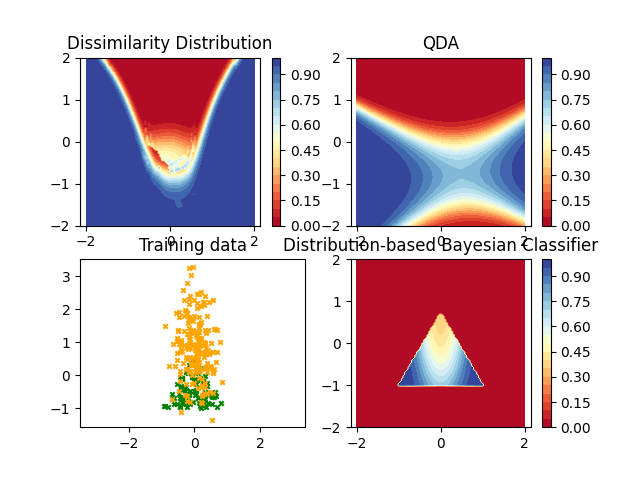
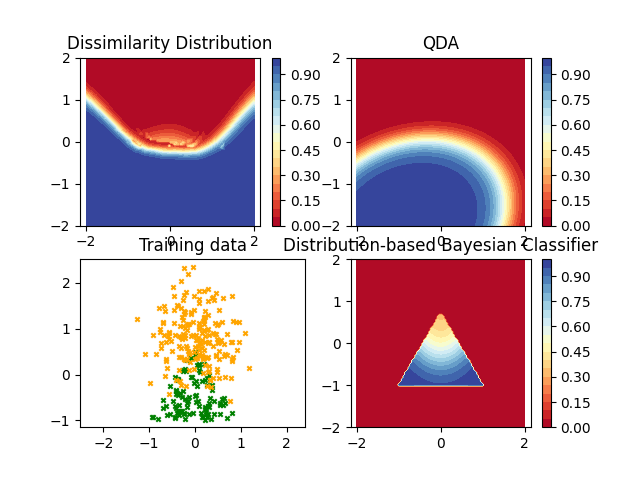
tests done

diff --git a/classifierTesting/testClassifier.py b/classifierTesting/testClassifier.py
@@ -8,6 +8,7 @@ import dissimClassLib as dcl
 import sklearn.discriminant_analysis as sklda
 import multiprocessing as mp
 import tqdm
+import winsound
 
 if __name__ == '__main__':
     #fix the seed
@@ -31,11 +32,11 @@ if __name__ == '__main__':
     nSR = 200
 
     # gamma parameter. Equivalent gamma will be gam/gamma2. gamma2 is not really working too well when it comes to getting the value of F
-    gam = [0,1]
+    gam = [5,0]
     gamma2=1
 
     #c fraction
-    cf=[2,12]
+    cf=[32,2]
 
     # c parameter = n/cf
     c = [nT[i]/cf[i] for i in range(len(nT))]
@@ -61,7 +62,7 @@ if __name__ == '__main__':
     onlyShape = False
 
     # flag to only plot the points in the shape
-    onlyPoints = True
+    onlyPoints = False
 
     ############################################ PROCESSING ############################################
 
@@ -456,3 +457,10 @@ if __name__ == '__main__':
 
     # close the figure
     plt.close()
+
+    frequency = [2000, 2500, 2000]  # Set Frequency To 2500 Hertz
+    duration = 200  # Set Duration To 500 ms == 0.5 second
+
+    # Play the beeps
+    for i in range(3):
+        winsound.Beep(frequency[i], duration)
